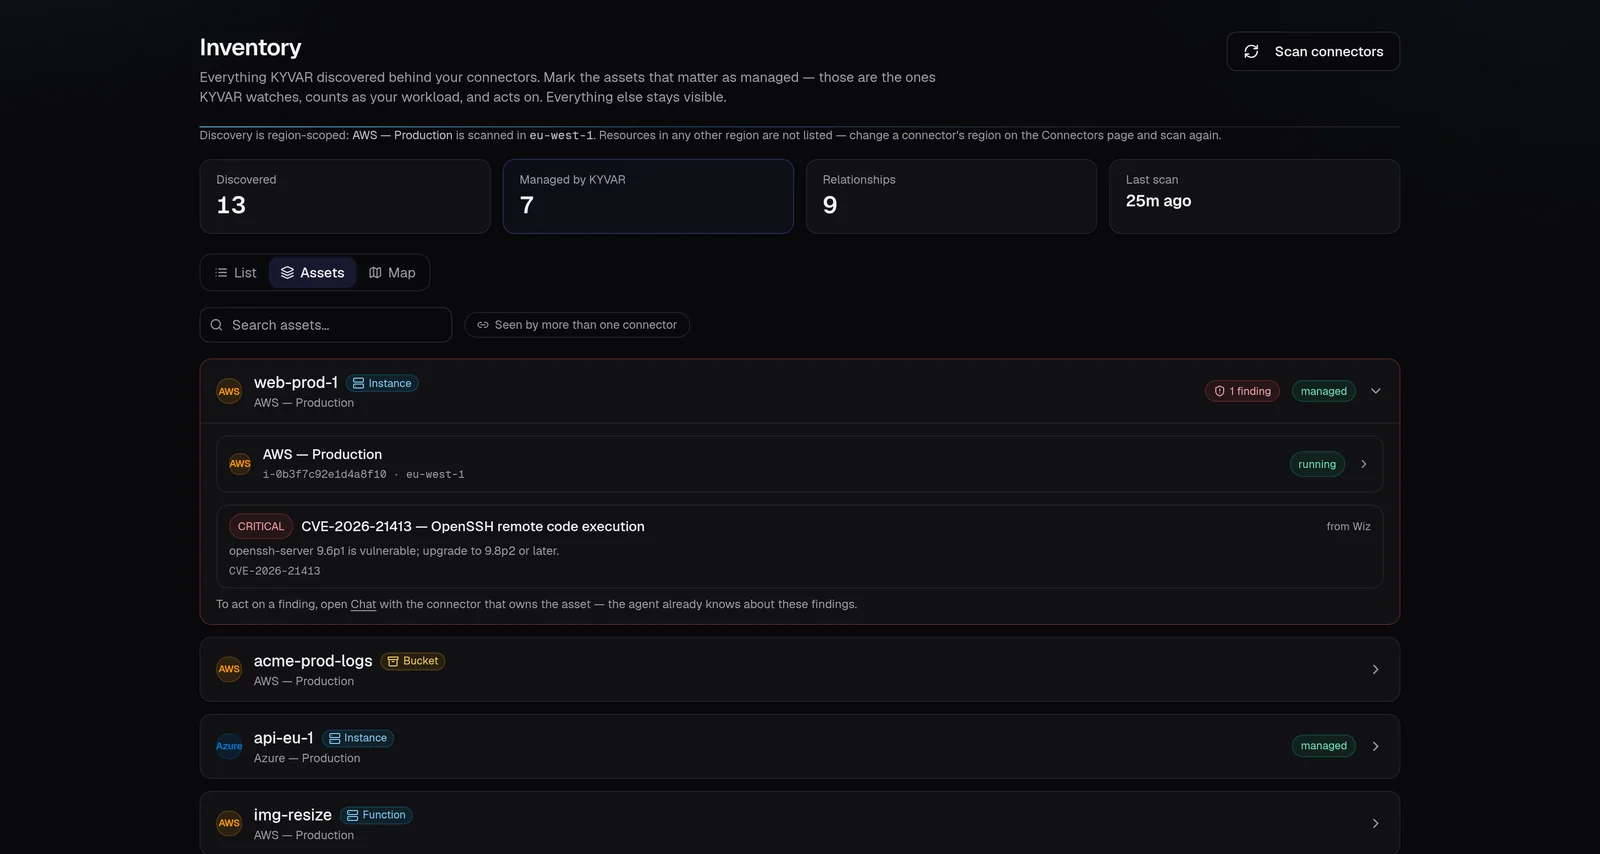
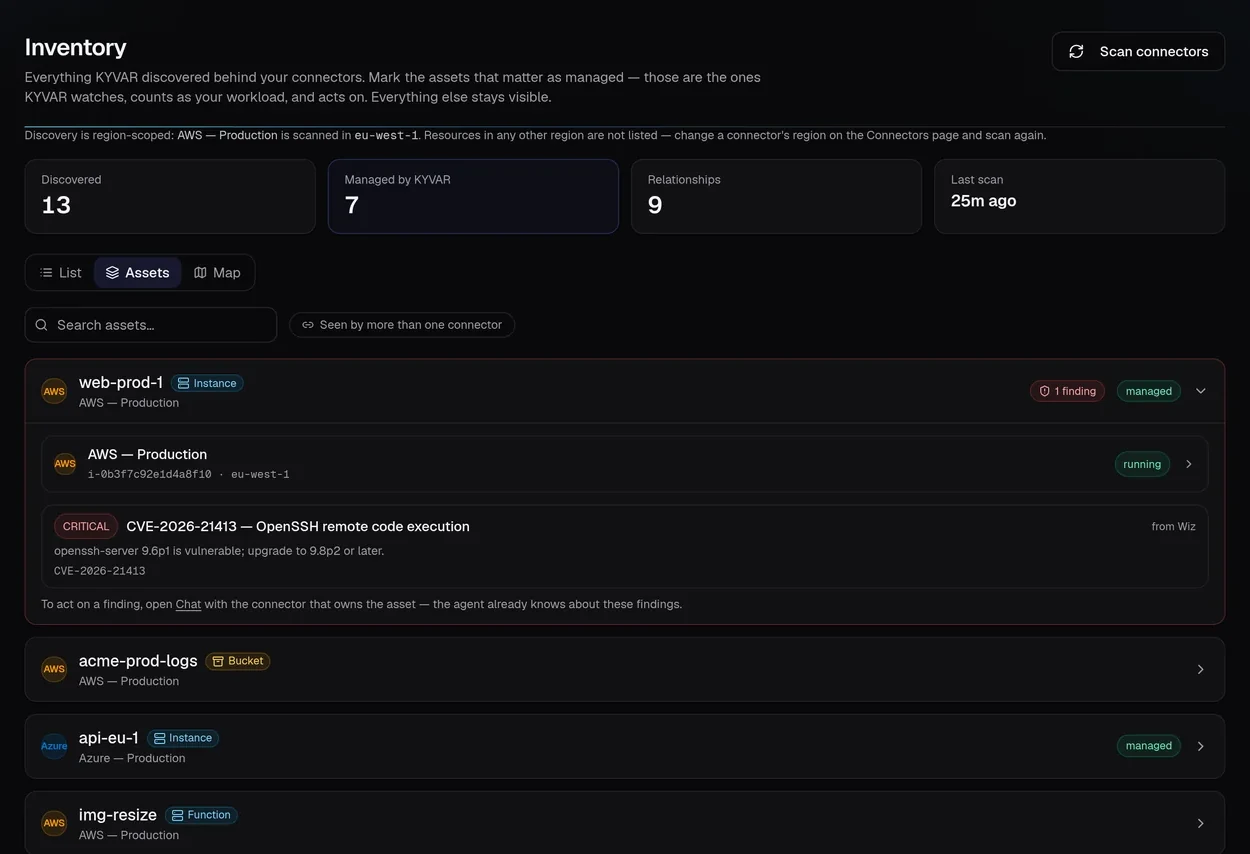
The product shots are legible, and you can zoom one
Reported: the screenshots are too small to read. Measured rather than
guessed, and the cause was not the layout — it was the images.

Every console shot was captured at a 1600px viewport, but the app's own
content column stops at ~1200px, so a quarter of each file is empty page
background. Eleven of the fourteen dark shots carry content only between
x=199 and x=1400. That empty quarter was then scaled down along with the
part people were trying to read: at a 1600px browser the UI rendered at
**75% of life size**, so its 13px text arrived as 10px.

Three changes, no re-shoot and nothing redrawn:

- `tools/crop-shots.py` trims each shot to its own content. It is
  committed rather than done by hand so it can run after every re-shoot,
  and it is idempotent (with 2px of slack, because WebP is lossy and
  re-measuring a cropped file can move a bound by a pixel — without the
  slack every run would re-encode and re-degrade an image that was
  already right). The dark shot measures and its light twin follows: the
  light theme paints a brand-tinted wash across the page, so "differs
  from the corner colour" finds no gutter there at all, and both variants
  are the same page at the same viewport, so the bounds are identical by
  construction. Horizontal only — the vertical bounds were already tight.
- The shot grid's cap goes 1200 -> 1440, so a desktop reader sees the
  console at life size or a little over.
- Each frame is a button that opens the file at its own pixel size
[…]

diff --git a/index.html b/index.html
@@ -175,7 +175,7 @@
     <div class="wide">
       <div class="shotframe">
         <div class="shotbar"><i></i><i></i><i></i><span>app.kyvar.io — Operations overview</span></div>
-        <picture><source srcset="assets/screenshots/overview-light.webp" media="(prefers-color-scheme: light)"><img src="assets/screenshots/overview.webp" alt="KYVAR operations overview: readiness, what needs a person, and the connected architecture from tenant to clouds" width="1600" height="664"></picture>
+        <picture><source srcset="assets/screenshots/overview-light.webp" media="(prefers-color-scheme: light)"><img src="assets/screenshots/overview.webp" alt="KYVAR operations overview: readiness, what needs a person, and the connected architecture from tenant to clouds" width="1255" height="664"></picture>
       </div>
       <div class="shotcap">The estate at a glance: can KYVAR run right now, what needs a person, and the live architecture from tenant to clouds.</div>
     </div>
@@ -189,7 +189,7 @@
     <div class="wide">
       <div class="shotframe">
         <div class="shotbar"><i></i><i></i><i></i><span>app.kyvar.io — Approvals</span></div>
-        <picture><source srcset="assets/screenshots/approvals-light.webp" media="(prefers-color-scheme: light)"><img src="assets/screenshots/approvals.webp" alt="KYVAR approvals: a provisioning request held by policy until a person approves it" width="1600" height="404" loading="lazy"></picture>
+        <picture><source srcset="assets/screenshots/approvals-light.webp" media="(prefers-color-scheme: light)"><img src="assets/screenshots/approvals.webp" alt="KYVAR approvals: a provisioning request held by policy until a person approves it" width="1250" height="404" loading="lazy"></picture>
       </div>
       <div class="shotcap">Nothing runs until a person says yes: the rule that parked it, the word that tripped it, the risk — and a reason that lands in the audit trail.</div>
     </div>
@@ -221,14 +221,14 @@
     <div class="wide">
       <div class="shotframe">
         <div class="shotbar"><i></i><i></i><i></i><span>app.kyvar.io — Incidents</span></div>
-        <picture><source srcset="assets/screenshots/incidents-light.webp" media="(prefers-color-scheme: light)"><img src="assets/screenshots/incidents.webp" alt="KYVAR incidents: what is broken right now, who has it, and how it ended" width="1600" height="524" loading="lazy"></picture>
+        <picture><source srcset="assets/screenshots/incidents-light.webp" media="(prefers-color-scheme: light)"><img src="assets/screenshots/incidents.webp" alt="KYVAR incidents: what is broken right now, who has it, and how it ended" width="1250" height="524" loading="lazy"></picture>
       </div>
       <div class="shotcap">What broke while nobody was watching, and where it stands — take it, investigate with KYVAR, or let the next check close it.</div>
     </div>
     <div class="wide">
       <div class="shotframe">
         <div class="shotbar"><i></i><i></i><i></i><span>app.kyvar.io — Monitors</span></div>
-        <picture><source srcset="assets/screenshots/monitors-light.webp" media="(prefers-color-scheme: light)"><img src="assets/screenshots/monitors.webp" alt="KYVAR monitors: a live probe and agent checks on a schedule, with self-healing armed per monitor" width="1600" height="1127" loading="lazy"></picture>
+        <picture><source srcset="assets/screenshots/monitors-light.webp" media="(prefers-color-scheme: light)"><img src="assets/screenshots/monitors.webp" alt="KYVAR monitors: a live probe and agent checks on a schedule, with self-healing armed per monitor" width="1249" height="1127" loading="lazy"></picture>
       </div>
       <div class="shotcap">Probes and agent checks on a schedule. Self-healing is armed per monitor — off by default, on deliberately.</div>
     </div>
@@ -309,7 +309,7 @@
     <div class="wide">
       <div class="shotframe">
         <div class="shotbar"><i></i><i></i><i></i><span>app.kyvar.io — Inventory · Assets</span></div>
-        <picture><source srcset="assets/screenshots/inventory-assets-light.webp" media="(prefers-color-scheme: light)"><img src="assets/screenshots/inventory-assets.webp" alt="KYVAR inventory: one asset with its provider record and the CNAPP's critical CVE finding mapped straight onto it" width="1600" height="854" loading="lazy"></picture>
+        <picture><source srcset="assets/screenshots/inventory-assets-light.webp" media="(prefers-color-scheme: light)"><img src="assets/screenshots/inventory-assets.webp" alt="KYVAR inventory: one asset with its provider record and the CNAPP's critical CVE finding mapped straight onto it" width="1250" height="854" loading="lazy"></picture>
       </div>
       <div class="shotcap">One asset, every source that sees it — and the CNAPP's critical CVE mapped straight onto the machine that has to be fixed.</div>
     </div>

diff --git a/assets/site.css b/assets/site.css
@@ -273,7 +273,7 @@ a.card:hover{border-color:var(--accent);transform:translateY(-3px)}
 :root[data-theme="light"] .shotframe{--shot-bg:#fbfdff;--shotbar-bg:#eef3f9;--shotbar-line:#dde6f0;--shot-dot:#c2d2e2;box-shadow:0 26px 60px rgba(30,55,90,.14)}
 .shotframe img{display:block;width:100%;height:auto}
 .shotcap{margin:14px 4px 0;font-size:13.5px;color:var(--faint);line-height:1.5}
-.shots{display:grid;grid-template-columns:1fr 1fr;gap:26px;max-width:1200px;margin:44px auto 0;width:100%}
+.shots{display:grid;grid-template-columns:1fr 1fr;gap:26px;max-width:1440px;margin:44px auto 0;width:100%}
 .shots>div{min-width:0}
 .shotframe{max-width:100%}
 .shots .wide{grid-column:1/-1}
@@ -400,10 +400,10 @@ a.card:hover{border-color:var(--accent);transform:translateY(-3px)}
   .pipeline{grid-template-columns:1fr 1fr}
   .pipestep:after{display:none!important}
   .shots{grid-template-columns:1fr}
-  .shotframe:has(img[width="1600"]),.shotframe:has(img[width="1590"]){overflow-x:auto;-webkit-overflow-scrolling:touch}
+  .shotframe{overflow-x:auto;-webkit-overflow-scrolling:touch}
   .shotframe .shotbar{position:sticky;left:0}
-  .shotframe img[width="1600"],.shotframe img[width="1590"]{width:780px;max-width:none}
-  .shotframe:has(img[width="1600"]) .shotbar:after,.shotframe:has(img[width="1590"]) .shotbar:after{content:"⟷ swipe";margin-left:auto;font-size:11px;color:var(--faint);letter-spacing:1px;flex-shrink:0}
+  .shotframe img{width:860px;max-width:none}
+  .shotframe .shotbar:after{content:"⟷ swipe · tap to zoom";margin-left:auto;font-size:11px;color:var(--faint);letter-spacing:1px;flex-shrink:0}
   .footgrid{grid-template-columns:1fr}
   .postgrid{grid-template-columns:1fr}
 }
@@ -441,3 +441,20 @@ a.card:hover{border-color:var(--accent);transform:translateY(-3px)}
    shrink, or its 780px swipe image sets the column's min-content and the
    whole page pans sideways on a phone — the same rule .shots>div carries. */
 #phone .grid>div{min-width:0}
+
+
+/* ---------- Screenshot zoom ----------
+   A console screenshot is dense, and even at life size a reader who wants to
+   check one chip has nowhere to go. The frame is a button (added by site.js,
+   so no-JS still gets the static image) and the overlay shows the file at its
+   own pixel size, scrollable in both axes. */
+.shotframe.zoomable{cursor:zoom-in}
+.shotframe.zoomable:focus-visible{outline:2px solid var(--accent);outline-offset:3px}
+.shotzoom{position:fixed;inset:0;z-index:80;display:none;background:rgba(3,7,15,.86);backdrop-filter:blur(6px);padding:24px}
+.shotzoom.on{display:block}
+:root[data-theme="light"] .shotzoom{background:rgba(226,236,246,.88)}
+@media (prefers-color-scheme: light){:root:not([data-theme="dark"]) .shotzoom{background:rgba(226,236,246,.88)}}
+.shotzoom-scroll{width:100%;height:100%;overflow:auto;display:grid;place-items:center}
+.shotzoom img{display:block;max-width:none;border-radius:14px;border:1px solid var(--line);box-shadow:0 30px 90px rgba(2,8,20,.5)}
+.shotzoom-close{position:absolute;top:18px;right:20px;z-index:1;border:1px solid var(--line-strong);background:var(--panel);color:var(--ink);border-radius:999px;padding:9px 16px;font-size:13px;font-weight:700;cursor:pointer}
+.shotzoom-cap{position:absolute;left:0;right:0;bottom:16px;text-align:center;font-size:12.5px;color:var(--faint);letter-spacing:.4px;pointer-events:none}

diff --git a/architecture.html b/architecture.html
@@ -133,21 +133,21 @@
     <div class="wide">
       <div class="shotframe">
         <div class="shotbar"><i></i><i></i><i></i><span>app.kyvar.io — Connectors</span></div>
-        <picture><source srcset="assets/screenshots/connectors-light.webp" media="(prefers-color-scheme: light)"><img src="assets/screenshots/connectors.webp" alt="KYVAR connectors: one row per connector — credentials stored in KYVAR, the runtime allowed to use them, the last test" width="1600" height="633" loading="lazy"></picture>
+        <picture><source srcset="assets/screenshots/connectors-light.webp" media="(prefers-color-scheme: light)"><img src="assets/screenshots/connectors.webp" alt="KYVAR connectors: one row per connector — credentials stored in KYVAR, the runtime allowed to use them, the last test" width="1254" height="633" loading="lazy"></picture>
       </div>
       <div class="shotcap">One row per connector: credentials encrypted in KYVAR, the runtime allowed to use them, and the last test — never returned by an API.</div>
     </div>
     <div class="wide">
       <div class="shotframe">
         <div class="shotbar"><i></i><i></i><i></i><span>app.kyvar.io — Runtimes</span></div>
-        <picture><source srcset="assets/screenshots/runtimes-light.webp" media="(prefers-color-scheme: light)"><img src="assets/screenshots/runtimes.webp" alt="KYVAR runtimes: the fleet at a glance — ready, agent, model, load and heartbeat per runtime" width="1600" height="517" loading="lazy"></picture>
+        <picture><source srcset="assets/screenshots/runtimes-light.webp" media="(prefers-color-scheme: light)"><img src="assets/screenshots/runtimes.webp" alt="KYVAR runtimes: the fleet at a glance — ready, agent, model, load and heartbeat per runtime" width="1427" height="517" loading="lazy"></picture>
       </div>
       <div class="shotcap">The fleet in one strip: ready or not, which agent and model, load and heartbeat — enrolled by a one-time token, never your service token.</div>
     </div>
     <div class="wide">
       <div class="shotframe">
         <div class="shotbar"><i></i><i></i><i></i><span>app.kyvar.io — Inventory · Map</span></div>
-        <picture><source srcset="assets/screenshots/inventory-map-light.webp" media="(prefers-color-scheme: light)"><img src="assets/screenshots/inventory-map.webp" alt="KYVAR inventory map: VPCs, subnets and workloads per connector across AWS and Azure" width="1600" height="847" loading="lazy"></picture>
+        <picture><source srcset="assets/screenshots/inventory-map-light.webp" media="(prefers-color-scheme: light)"><img src="assets/screenshots/inventory-map.webp" alt="KYVAR inventory map: VPCs, subnets and workloads per connector across AWS and Azure" width="1250" height="847" loading="lazy"></picture>
       </div>
       <div class="shotcap">The estate per connector — VPCs, subnets and workloads across AWS and Azure, managed assets marked, cross-connector links inferred.</div>
     </div>

diff --git a/assets/site.js b/assets/site.js
@@ -42,3 +42,73 @@ document.querySelectorAll('.reveal').forEach(x=>o.observe(x));
   if (mq.addEventListener) mq.addEventListener('change', sync);
   sync();
 })();
+
+/* ---------- Screenshot zoom ----------
+   Every product shot on this site is a 1250px-wide console rendered into a
+   column narrower than that, so a reader who wants to check one chip has
+   nowhere to go. Each .shotframe becomes a real button and opens the file at
+   its own pixel size.
+
+   Progressive enhancement on purpose: with no JS the frames are exactly what
+   they were, a static image, so nothing is lost. */
+(function () {
+  var frames = document.querySelectorAll('.shotframe');
+  if (!frames.length) return;
+
+  var overlay = document.createElement('div');
+  overlay.className = 'shotzoom';
+  overlay.setAttribute('role', 'dialog');
+  overlay.setAttribute('aria-modal', 'true');
+  overlay.setAttribute('aria-label', 'Screenshot, full size');
+  overlay.innerHTML =
+    '<button type="button" class="shotzoom-close">Close ✕</button>' +
+    '<div class="shotzoom-scroll"><img alt=""></div>' +
+    '<div class="shotzoom-cap">Press Escape or click anywhere to close</div>';
+  document.body.appendChild(overlay);
+
+  var big = overlay.querySelector('img');
+  var closeBtn = overlay.querySelector('.shotzoom-close');
+  var opener = null;
+
+  function open(img, label) {
+    // currentSrc resolves the <picture> the browser actually chose, so the
+    // zoom matches the theme on screen rather than always showing the dark one.
+    big.src = img.currentSrc || img.src;
+    big.alt = label || img.alt || '';
+    overlay.classList.add('on');
+    document.body.style.overflow = 'hidden';
+    closeBtn.focus();
+  }
+
+  function close() {
+    overlay.classList.remove('on');
+    document.body.style.overflow = '';
+    big.removeAttribute('src');
+    if (opener) { opener.focus(); opener = null; }
+  }
+
+  overlay.addEventListener('click', close);
+  closeBtn.addEventListener('click', close);
+  document.addEventListener('keydown', function (e) {
+    if (e.key === 'Escape' && overlay.classList.contains('on')) close();
+  });
+
+  Array.prototype.forEach.call(frames, function (frame) {
+    var img = frame.querySelector('img');
+    if (!img) return;
+    var bar = frame.querySelector('.shotbar span');
+    var label = bar ? bar.textContent.trim() : (img.alt || 'Screenshot');
+    frame.classList.add('zoomable');
+    frame.setAttribute('role', 'button');
+    frame.setAttribute('tabindex', '0');
+    frame.setAttribute('aria-label', 'View full size: ' + label);
+    frame.addEventListener('click', function () { opener = frame; open(img, img.alt); });
+    frame.addEventListener('keydown', function (e) {
+      if (e.key === 'Enter' || e.key === ' ') {
+        e.preventDefault();
+        opener = frame;
+        open(img, img.alt);
+      }
+    });
+  });
+})();

diff --git a/security.html b/security.html
@@ -154,21 +154,21 @@
     <div class="wide">
       <div class="shotframe">
         <div class="shotbar"><i></i><i></i><i></i><span>app.kyvar.io — Inventory</span></div>
-        <picture><source srcset="assets/screenshots/inventory-list-light.webp" media="(prefers-color-scheme: light)"><img src="assets/screenshots/inventory-list.webp" alt="KYVAR inventory list: everything discovered, filterable by type, with security findings as first-class rows" width="1600" height="906" loading="lazy"></picture>
+        <picture><source srcset="assets/screenshots/inventory-list-light.webp" media="(prefers-color-scheme: light)"><img src="assets/screenshots/inventory-list.webp" alt="KYVAR inventory list: everything discovered, filterable by type, with security findings as first-class rows" width="1250" height="906" loading="lazy"></picture>
       </div>
       <div class="shotcap">Everything discovered, filterable — managed assets are the ones KYVAR watches and acts on; findings are rows like any other.</div>
     </div>
     <div class="wide">
       <div class="shotframe">
         <div class="shotbar"><i></i><i></i><i></i><span>app.kyvar.io — Runs</span></div>
-        <picture><source srcset="assets/screenshots/runs-light.webp" media="(prefers-color-scheme: light)"><img src="assets/screenshots/runs.webp" alt="KYVAR runs: every action recorded with who asked, how long it took, and what is still held" width="1600" height="596" loading="lazy"></picture>
+        <picture><source srcset="assets/screenshots/runs-light.webp" media="(prefers-color-scheme: light)"><img src="assets/screenshots/runs.webp" alt="KYVAR runs: every action recorded with who asked, how long it took, and what is still held" width="1250" height="596" loading="lazy"></picture>
       </div>
       <div class="shotcap">Everything KYVAR has run — who asked, which runtime, how long it took, and what is still held for approval.</div>
     </div>
     <div class="wide">
       <div class="shotframe">
         <div class="shotbar"><i></i><i></i><i></i><span>app.kyvar.io — Run · the record</span></div>
-        <picture><source srcset="assets/screenshots/run-detail-light.webp" media="(prefers-color-scheme: light)"><img src="assets/screenshots/run-detail.webp" alt="KYVAR run detail: the answer, the steps it took, what changed, and the timeline behind it" width="1600" height="779" loading="lazy"></picture>
+        <picture><source srcset="assets/screenshots/run-detail-light.webp" media="(prefers-color-scheme: light)"><img src="assets/screenshots/run-detail.webp" alt="KYVAR run detail: the answer, the steps it took, what changed, and the timeline behind it" width="1250" height="779" loading="lazy"></picture>
       </div>
       <div class="shotcap">Every run has a record: the answer, the steps, what changed, and the timeline behind it — what a reviewer opens.</div>
     </div>

diff --git a/tools/crop-shots.py b/tools/crop-shots.py
@@ -1,0 +1,98 @@
+#!/usr/bin/env python3
+"""Trim the empty page gutter from the product screenshots.
+
+Every console shot was captured at a 1600px viewport, but the app's own
+content column stops at ~1200px — so a quarter of each image is empty
+background, and on the site that empty quarter is scaled down along with
+the part people are trying to read. Measured before writing this: eleven of
+the fourteen dark shots carry content only between x=199 and x=1400.
+
+Cropping to the content makes the UI 1.33x larger at the same rendered
+width, with nothing fabricated and nothing redrawn.
+
+Two rules worth keeping:
+
+- **The dark shot measures, and its light twin follows.** The light theme
+  paints a brand-tinted wash across the page, so "differs from the corner
+  colour" finds no gutter there at all. Both variants are the same page at
+  the same viewport, so the horizontal bounds are identical by construction
+  — measuring the one that can be measured and applying it to both is more
+  reliable than a cleverer detector.
+- **Horizontal only.** The vertical bounds are already tight (a 25px band
+  at most), and a shot's height legitimately differs between themes because
+  the content does.
+
+Idempotent: a shot already cropped to within MARGIN of its content is left
+alone, so this can run after every re-shoot.
+"""
+from __future__ import annotations
+
+import sys
+from pathlib import Path
+
+from PIL import Image
+
+SHOTS = Path(__file__).resolve().parent.parent / "assets" / "screenshots"
+MARGIN = 24          # breathing room so the UI is not flush against the frame
+TOLERANCE = 12       # per-channel distance from the background colour
+
+
+def content_columns(im: Image.Image) -> tuple[int, int]:
+    """First and last column that is not page background."""
+    im = im.convert("RGB")
+    w, h = im.size
+    px = im.load()
+    bg = px[2, h // 2]
+
+    def has_content(x: int) -> bool:
+        for y in range(0, h, 3):
+            p = px[x, y]
+            if any(abs(p[i] - bg[i]) > TOLERANCE for i in range(3)):
+                return True
+        return False
+
+    left = 0
+    while left < w and not has_content(left):
+        left += 1
+    right = w - 1
+    while right > left and not has_content(right):
+        right -= 1
+    return left, right
+
+
+def main() -> int:
+    changed = []
+    for dark in sorted(SHOTS.glob("*.webp")):
+        if dark.name.endswith("-light.webp"):
+            continue
+        with Image.open(dark) as im:
+            width = im.size[0]
+            left, right = content_columns(im)
+
+        # 2px of slack: WebP is lossy, so re-measuring a cropped shot can
+        # move a bound by a pixel, and without the slack every run would
+        # re-encode (and re-degrade) an image that is already right.
+        if left <= MARGIN + 2 and right >= width - 1 - MARGIN - 2:
+            print(f"{dark.name:28s} already tight ({left}..{right} of {width})")
+            continue
+
+        box_l = max(0, left - MARGIN)
+        box_r = min(width, right + 1 + MARGIN)
+
+        for path in (dark, dark.with_name(dark.stem + "-light.webp")):
+            if not path.exists():
+                continue
+            with Image.open(path) as im:
+                if im.size[0] != width:
+                    print(f"  ! {path.name} is {im.size[0]}px wide, not {width} — skipped")
+                    continue
+                im.crop((box_l, 0, box_r, im.size[1])).save(path, "WEBP", quality=88, method=6)
+            changed.append(path.name)
+        print(f"{dark.name:28s} {width} -> {box_r - box_l}  (content {left}..{right})")
+
+    print(f"\n{len(changed)} file(s) rewritten")
+    return 0
+
+
+if __name__ == "__main__":
+    sys.exit(main())
